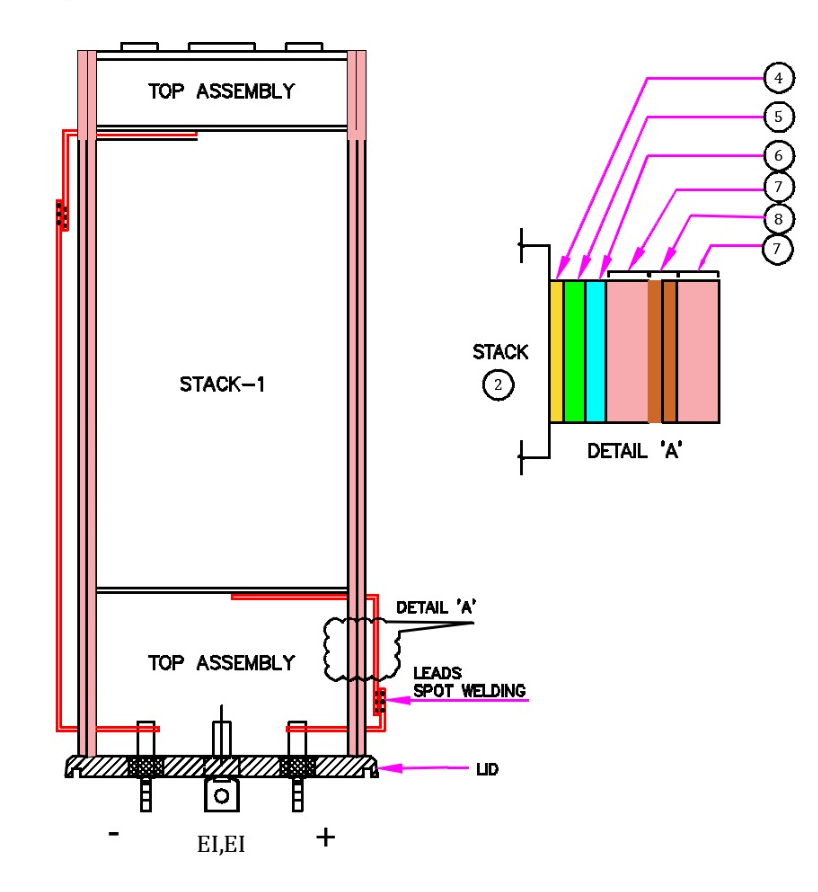
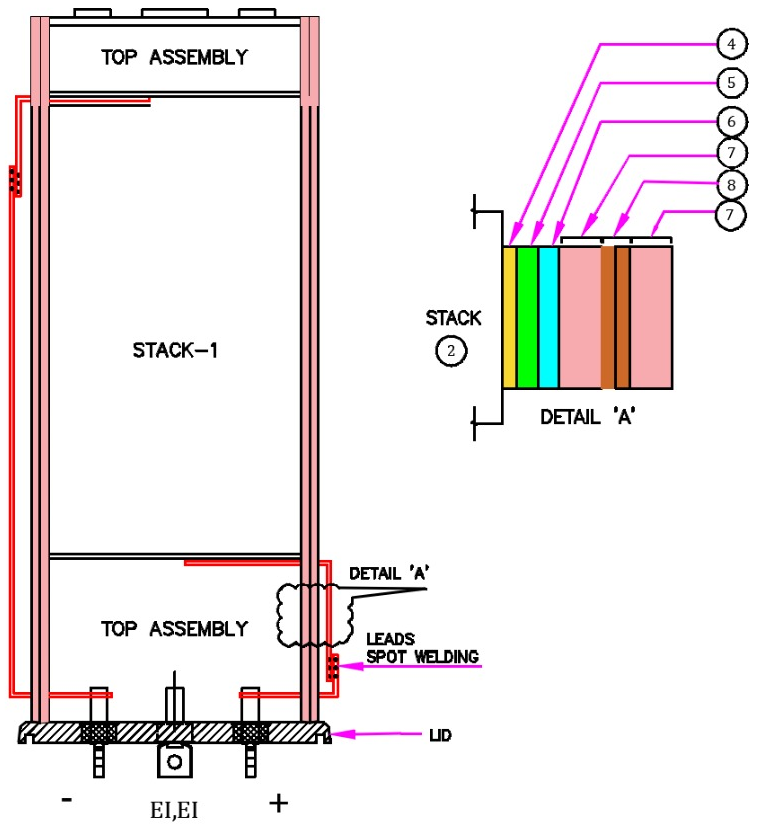
feat(cad): Three Stack variant, and a cleaner crop for all three
Adds the SUDHARSAN three-stack artwork (S1/S2/S3, Detail A and the AS PER PID
note), so all three Stack Assembly variants now produce a sheet.

Rebuilt all three crops with a thresholded trim. The previous one used
getbbox, which counts near-white scanner noise as content and so left a wide
empty band above the views on the three-stack sheet.

Dropped the sharpness floor from 120 to 110 dpi. Artwork exported at a sensible
size lands at 113-129 dpi filling the drawing area, so a 120 floor was shrinking
good drawings for no visible gain; 110 still catches genuinely poor input.

  one stack    153x168 mm @ 126 dpi
  two stack    164x168 mm @ 129 dpi
  three stack  169x168 mm @ 113 dpi

diff --git a/frontend/app.js b/frontend/app.js
@@ -1478,7 +1478,7 @@ REV_SPECS["stack_assembly"] = {
   ],
   fields: [
     ["min_dpi", "Picture sharpness (dpi)",
-      "How densely the picture is printed. The drawing is placed as large as it can be without going below this — raise it for a smaller, crisper picture, lower it for a bigger, softer one. Default 120."],
+      "How densely the picture is printed. The drawing is placed as large as it can be without going below this — raise it for a smaller, crisper picture, lower it for a bigger, softer one. Default 110."],
   ],
 };
 const STRING_KEYS = new Set(["container_type", "flange_kind", "flange_position",

diff --git a/backend/cad/image_sheet.py b/backend/cad/image_sheet.py
@@ -28,10 +28,11 @@ class ImageSheetParams:
     image_px_h: int = 0
     caption: str = ""                    # e.g. "ONE STACK"
     frame: bool = False                  # outline around the picture
-    # Never print coarser than this. 120 is the point where the linework is
-    # crisp but the lettering on the picture is still readable; pushing higher
-    # shrinks the picture faster than it sharpens it.
-    min_dpi: float = 120.0
+    # Never print coarser than this. Artwork exported at a sensible size lands
+    # around 110-135 dpi filling the sheet, and reads cleanly; the floor is set
+    # just under that so it only bites on genuinely poor artwork (a screenshot,
+    # say) rather than shrinking good drawings for no gain.
+    min_dpi: float = 110.0
     component_name: str = "DRAWING"
     material: str = "AS LISTED"
     project: str = ""

diff --git a/backend/main.py b/backend/main.py
@@ -2629,7 +2629,7 @@ def cad_stack_assembly(req: StackAssemblyRequest, user: str = Depends(require_au
     project = job.battery_name if job else ""
     seq, code, drawing_no = (_next_component(job, "stack_assembly", "STACK ASSEMBLY", req.seq)
                              if job else (1, "", "RES-__-01"))
-    dpi_floor = float(req.min_dpi) if req.min_dpi else 120.0
+    dpi_floor = float(req.min_dpi) if req.min_dpi else 110.0
     p = ImageSheetParams(
         image_data=data, image_media=media, image_px_w=pw, image_px_h=ph,
         caption=STACK_ASSEMBLY_TYPES[st], min_dpi=dpi_floor,
